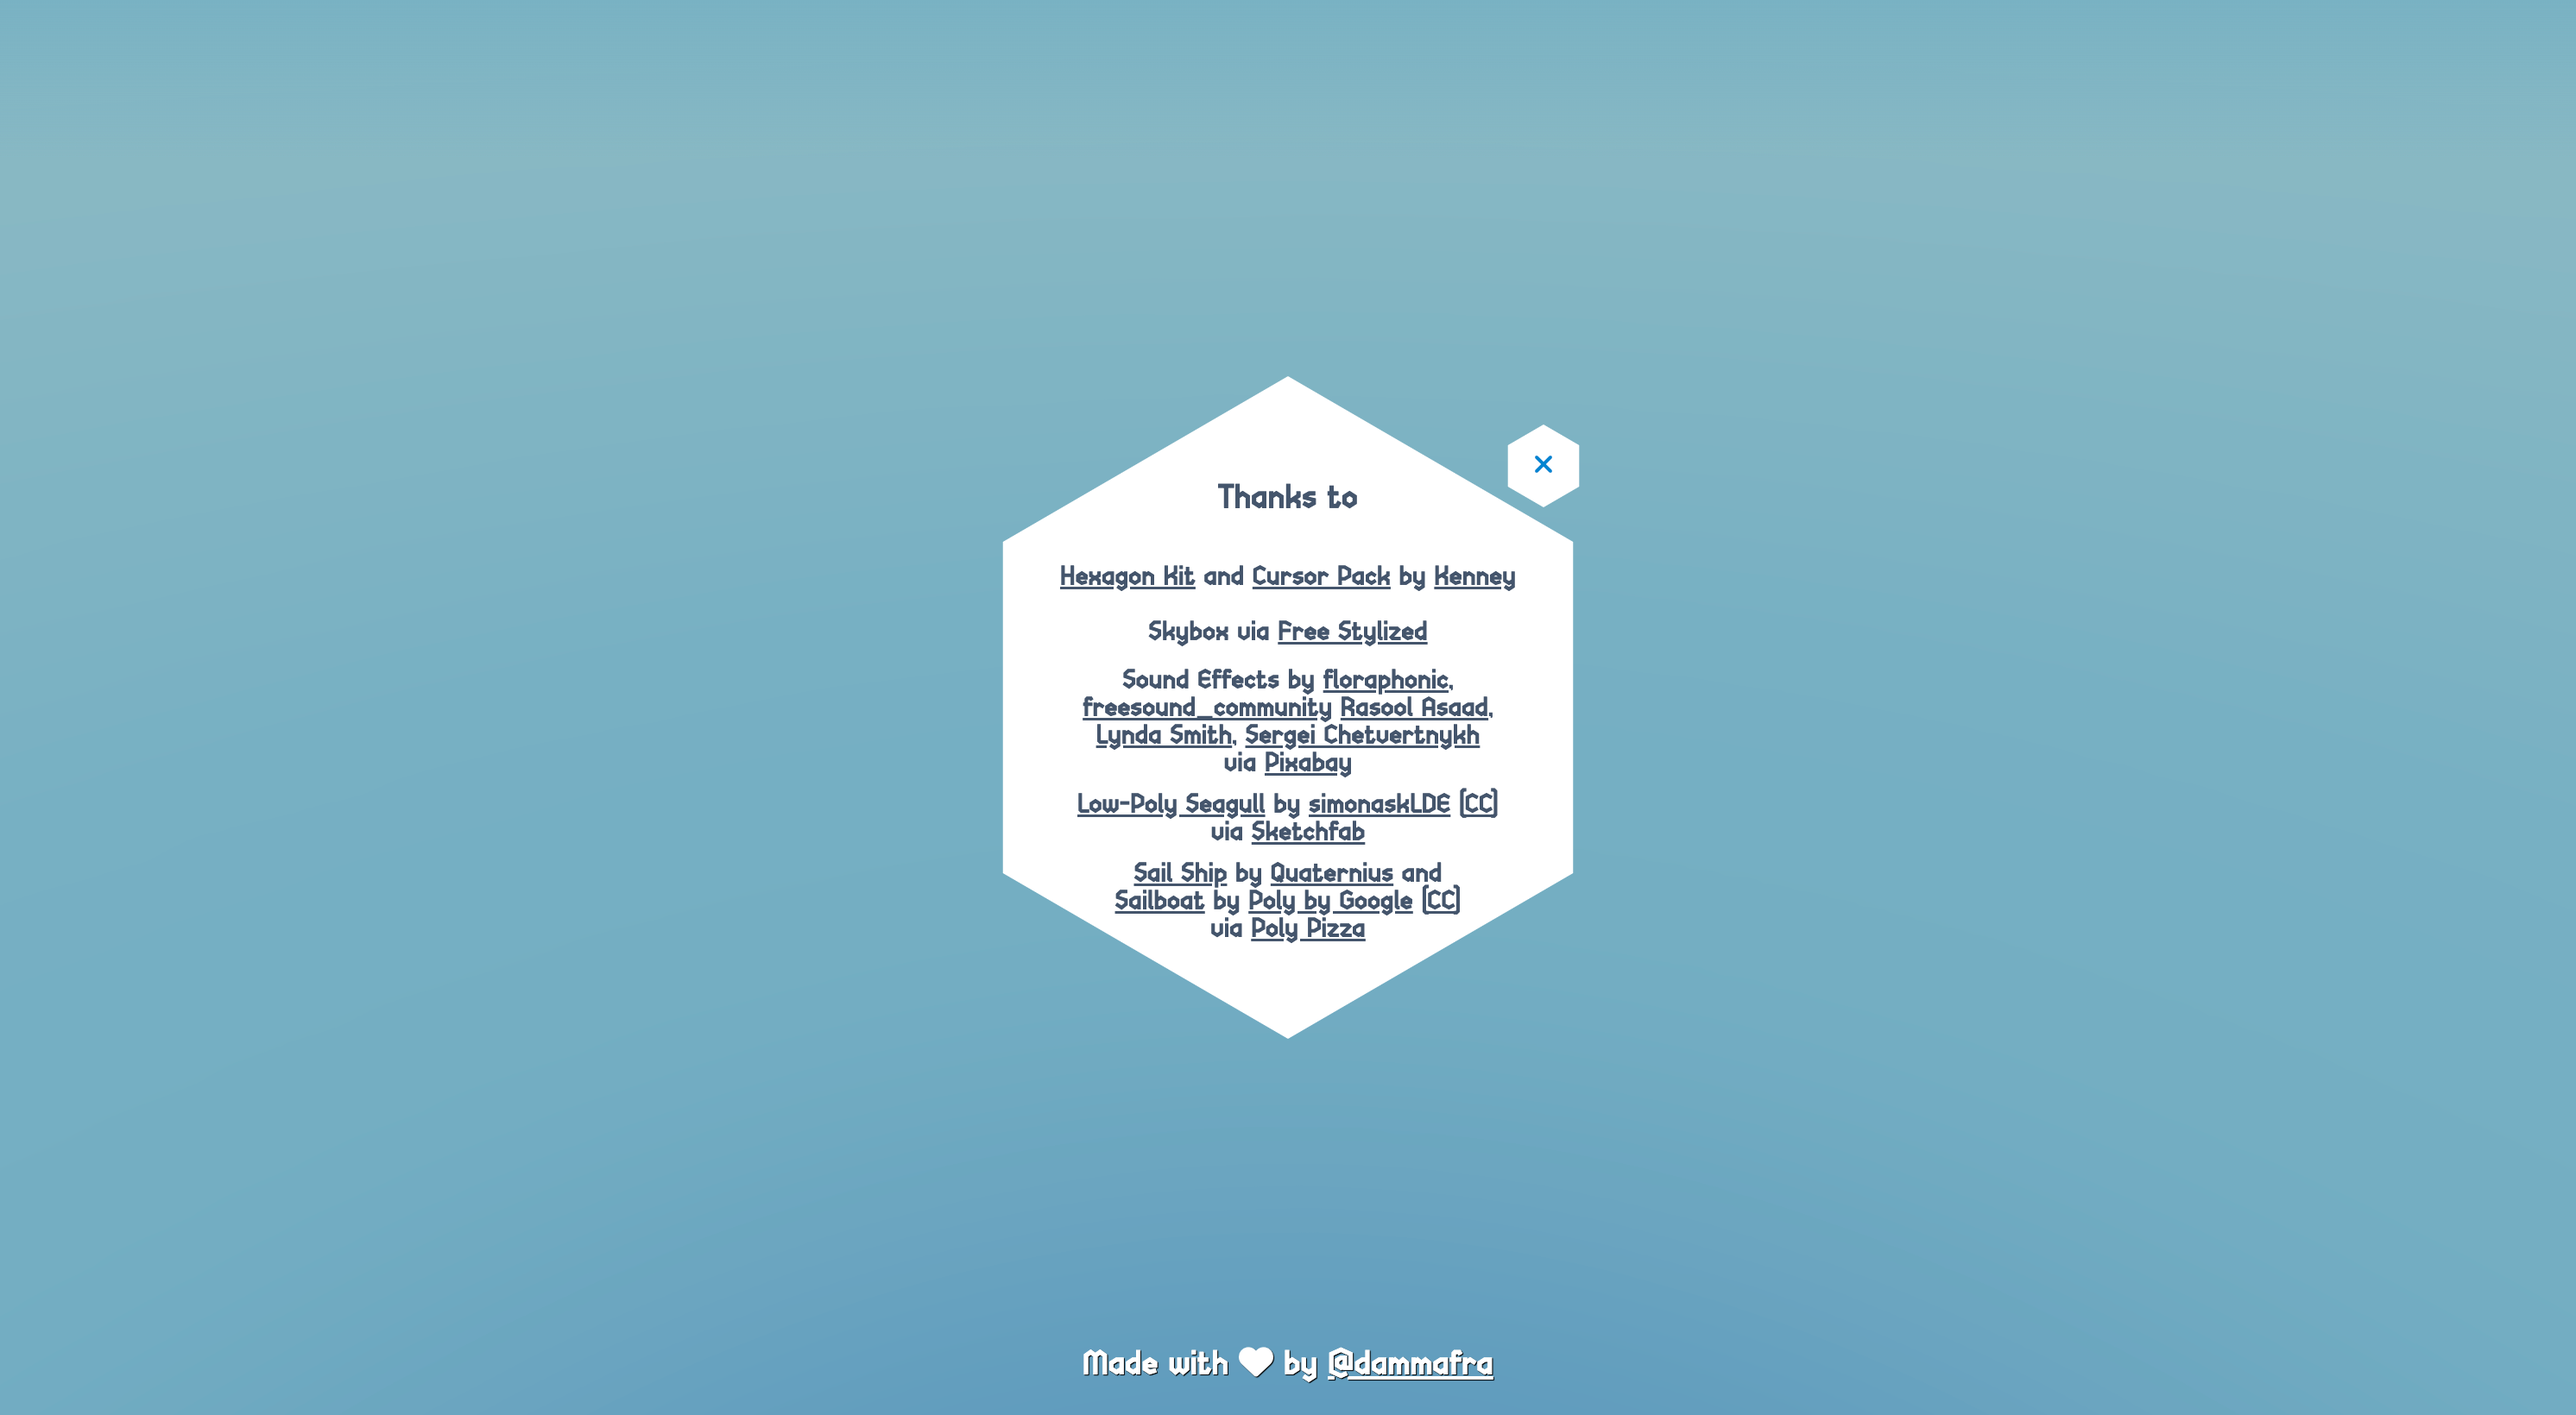
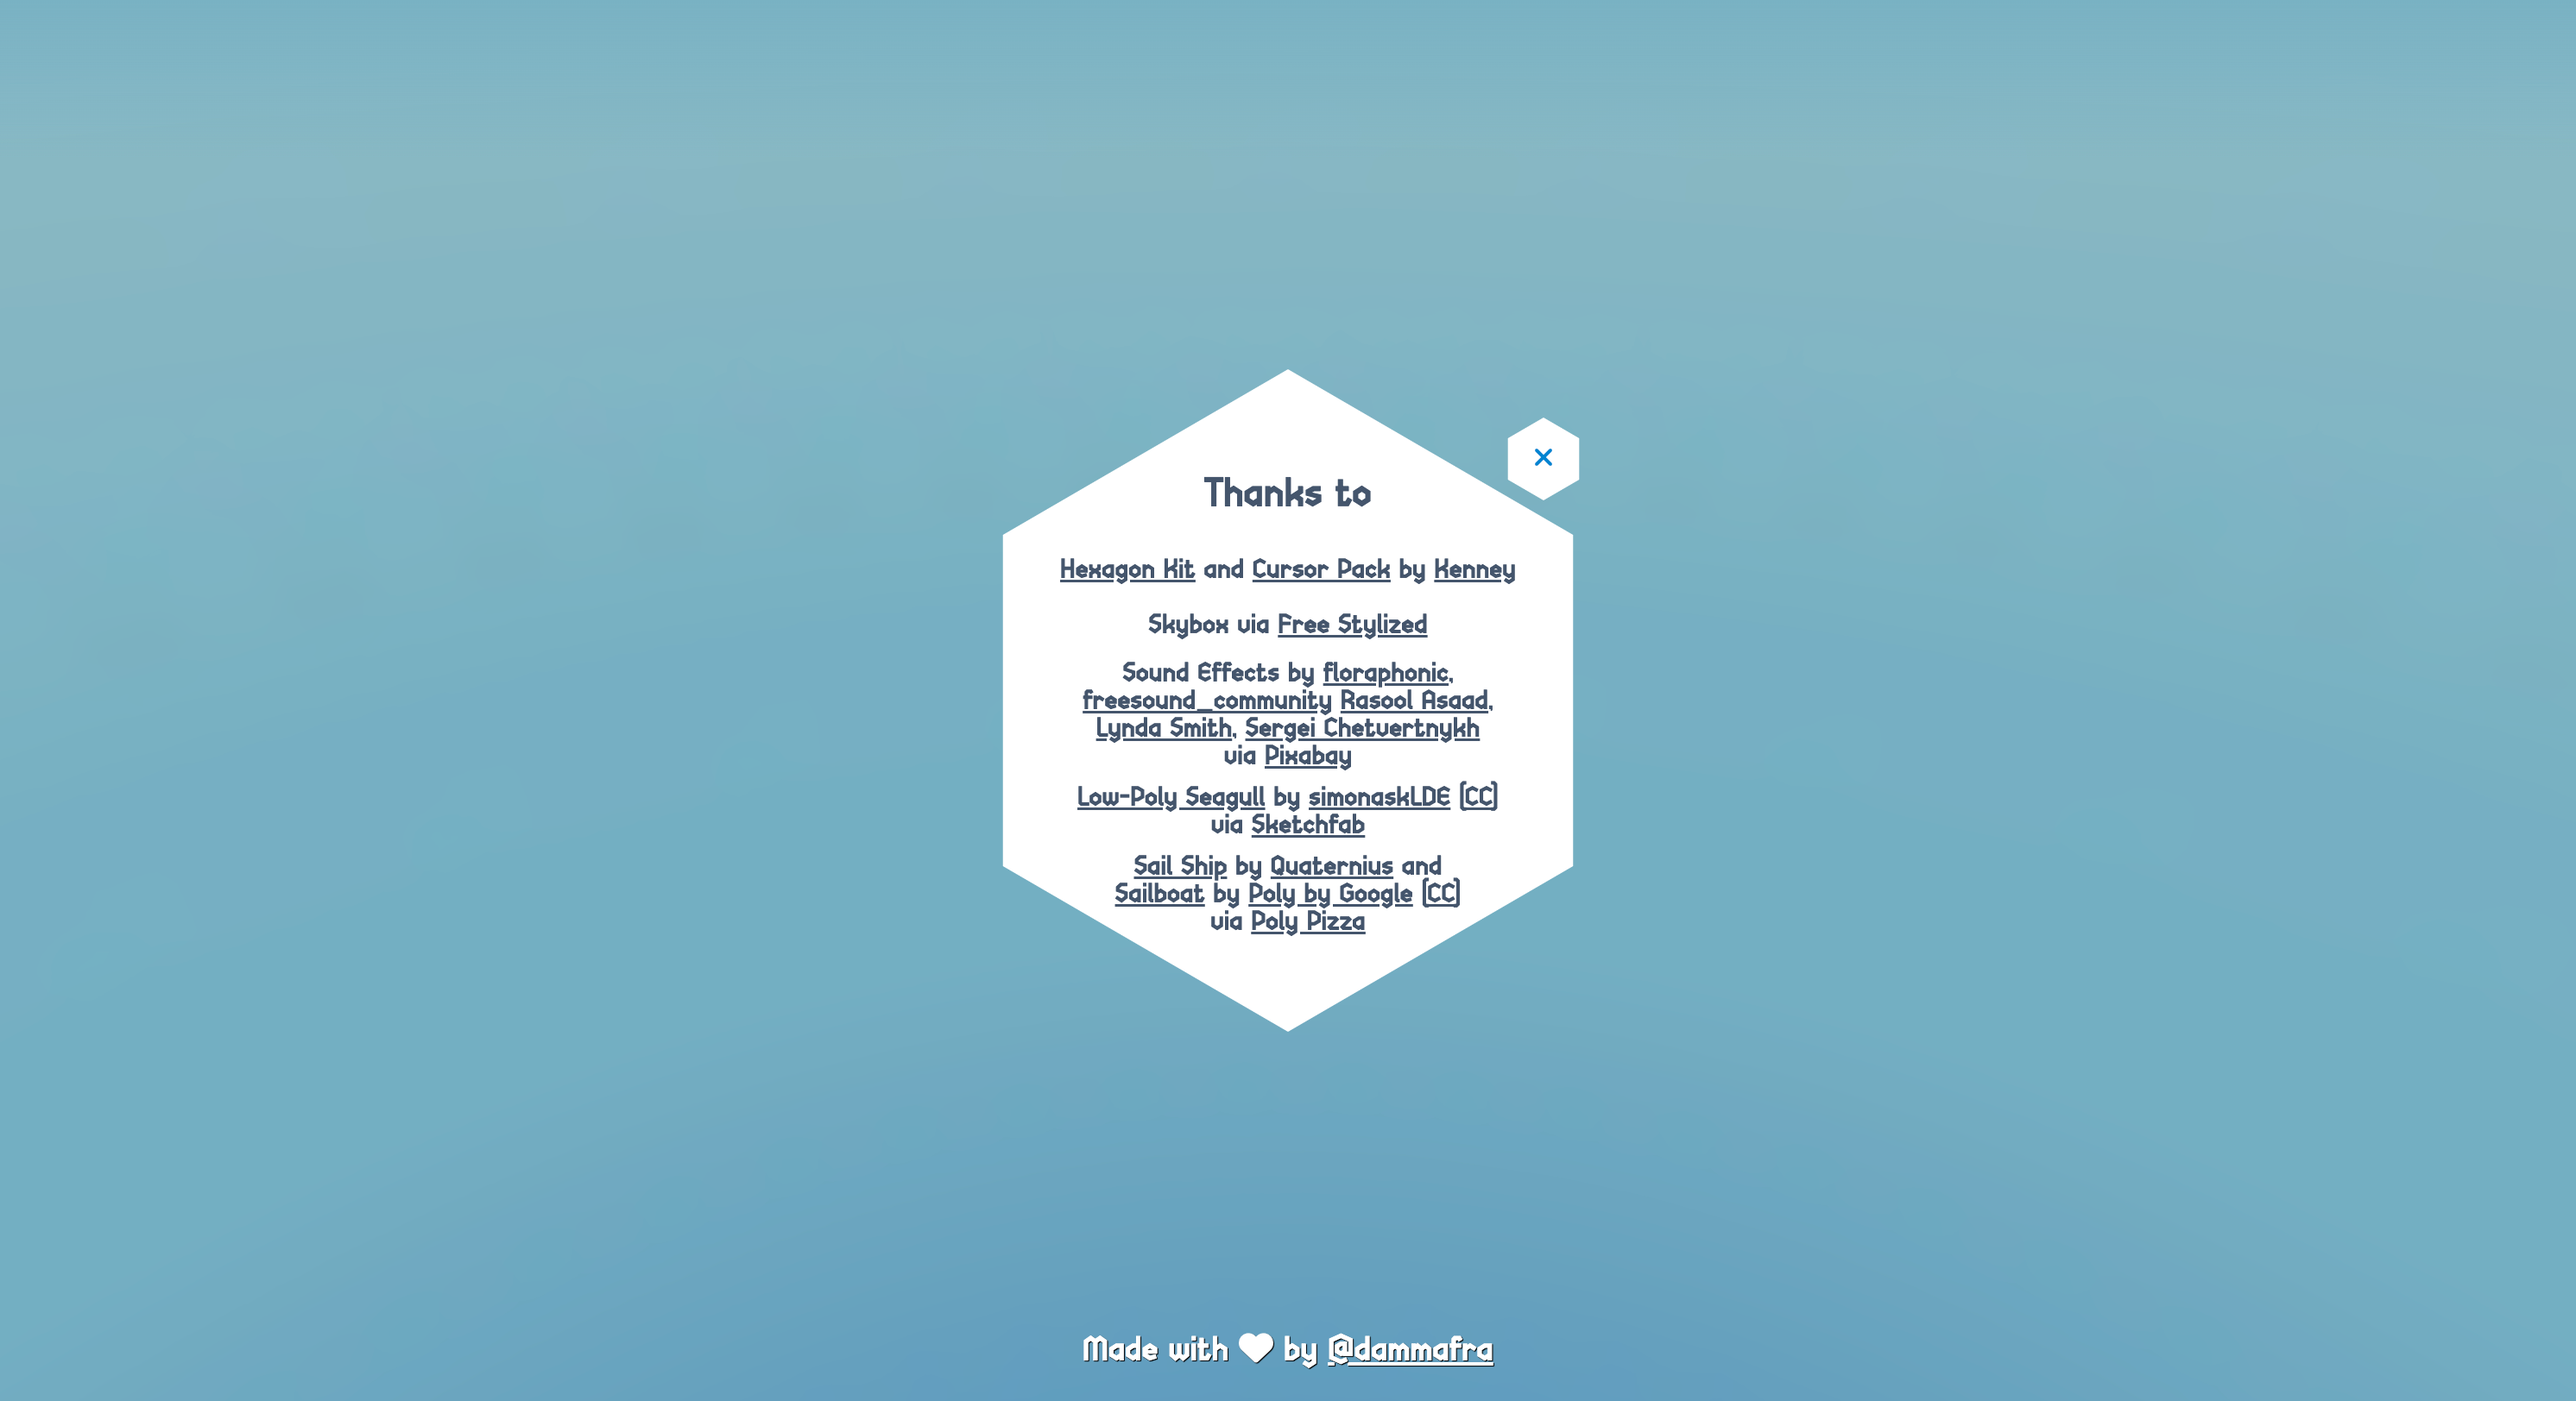
Add auth modals

diff --git a/src/index.html b/src/index.html
@@ -276,23 +276,23 @@
       </div>
 
       <div class="menu">
-        <div class="relative text-center">
+        <div class="relative text-center flex flex-col items-center">
           <div class="bg-hex"></div>
           <h1 class="title">Drysland</h1>
-          <div class="w-full flex flex-row justify-center">
+          <div class="flex flex-row justify-center relative">
             <button id="start" class="hex">
               <i class="fa-solid fa-play"></i>
               <label>Start</label>
             </button>
             <button id="auth" class="hex">
               <i class="fa-brands fa-google"></i>
-              <label>Login</label>
+              <label>Log in</label>
             </button>
             <button id="credits" class="hex absolute -bottom-20">
               <i class="fa-solid fa-circle-info"></i>
               <label>Credits</label>
             </button>
-            <button id="settings" class="hex absolute -bottom-[44px] right-[49px]">
+            <button id="settings" class="hex absolute -bottom-[44px] -right-[3px]">
               <i class="fa-solid fa-cog text-2xl"></i>
             </button>
           </div>
@@ -305,7 +305,7 @@
       </div>
 
       <div class="modal-container">
-        <div id="modal" class="flex hidden"></div>
+        <div class="modal-content hidden"></div>
         <button id="modal-close" class="hex absolute mb-70 ml-74 z-10 hidden">
           <i class="fa-solid fa-xmark"></i>
         </button>
@@ -314,8 +314,8 @@
       <canvas class="webgl grab"></canvas>
 
       <!-- modals -->
-      <div class="credits hidden">
-        <div class="pb-5 text-xl">Thanks to</div>
+      <div id="credits" class="modal hidden">
+        <h2>Thanks to</h2>
         <div class="flex flex-col gap-2">
           <div>
             <a href="https://kenney.nl/assets/hexagon-kit" target="_blank">Hexagon Kit</a> and
@@ -393,23 +393,19 @@
         </div>
       </div>
 
-      <div class="state-conflict hidden">
-        <div class="flex flex-col gap-2">
-          <p class="text-sm text-center">
-            Looks like your local and remote saves don’t match, choose the one you want to keep:
-          </p>
-          <div class="slots flex justify-center gap-2"></div>
+      <div id="state-conflict" class="modal hidden">
+        <p>Looks like your local and remote saves don’t match, choose the one to keep:</p>
+        <div class="slots flex justify-center gap-2">
+          <button id="save-slot" class="hex primary hidden size-32">
+            <p class="level text-xl">level</p>
+            <p class="date text-xs">date</p>
+          </button>
         </div>
       </div>
 
-      <button id="save-slot" class="hex primary hidden">
-        <p class="level text-xl">level</p>
-        <p class="date leading-4">date</p>
-      </button>
-
-      <div class="settings hidden text-center">
-        <div class="pb-5 text-2xl">Graphics Settings</div>
-        <div class="flex flex-col gap-2">
+      <div id="settings" class="modal hidden">
+        <h2>Graphics Settings</h2>
+        <div class="flex flex-col gap-2 w-44">
           <label>
             <input type="radio" name="graphics" value="quality" />
             <span class="radio-mark"></span>
@@ -421,12 +417,33 @@
             Performance
           </label>
         </div>
-        <p
-          id="restart-warning"
-          class="absolute bottom-[4.5rem] left-0 px-14 text-amber-500 scale-0"
-        >
+        <p id="restart-warning" class="text-amber-500 scale-0">
           You might need to restart the game for some changes to take effect
         </p>
+      </div>
+
+      <div id="auth-login" class="modal hidden">
+        <h2>Log in</h2>
+        <p>
+          Your progress is automatically saved on this device. <br />
+          Log in with Google to back up and sync it across all your devices.
+        </p>
+        <div class="flex justify-center gap-2">
+          <button id="cancel" class="hex secondary size-20">Cancel</button>
+          <button id="continue" class="hex primary size-20">Continue</button>
+        </div>
+      </div>
+
+      <div id="auth-logout" class="modal hidden">
+        <h2>Log out</h2>
+        <p>
+          You’re currently syncing your progress with your Google account. <br />
+          Logging out will stop cloud sync, but your progress will still be saved locally.
+        </p>
+        <div class="flex justify-center gap-2">
+          <button id="cancel" class="hex secondary size-20">Cancel</button>
+          <button id="continue" class="hex primary size-20">Continue</button>
+        </div>
       </div>
 
       <!-- header -->

diff --git a/src/firebase/auth.js b/src/firebase/auth.js
@@ -1,3 +1,6 @@
+import Button from '@ui/button'
+import Modal from '@ui/modal'
+import UI from '@ui/ui'
 import {
   GoogleAuthProvider,
   browserLocalPersistence,
@@ -17,16 +20,52 @@ export default class Auth {
     if (Auth.instance) return Auth.instance
 
     this.auth = getAuth(FirebasApp.instance)
+    this.provider = new GoogleAuthProvider()
+
     setPersistence(this.auth, browserLocalPersistence)
 
-    this.provider = new GoogleAuthProvider()
+    UI.authToggle
+      .onClick(() => (Auth.instance.user ? Auth.instance.signOut() : Auth.instance.signIn()))
+      .disable(true)
+
+    this.subscribe(user => {
+      UI.authToggle
+        .setLabel(user ? 'Log out' : 'Log in')
+        .toggle(!user)
+        .enable()
+      user && State.instance.sync()
+    })
   }
 
-  signIn = () => signInWithPopup(this.auth, this.provider)
+  signIn() {
+    Modal.instance.open('#auth-login.modal', {
+      disableClose: true,
+      onBeforeOpen: content => {
+        new Button(content.querySelector('#cancel')).onClick(() => Modal.instance.close()).show()
+        new Button(content.querySelector('#continue'))
+          .onClick(() => {
+            signInWithPopup(this.auth, this.provider)
+            Modal.instance.close()
+          })
+          .show()
+      },
+    })
+  }
 
   async signOut() {
-    await State.instance.desync()
-    return signOut(this.auth)
+    Modal.instance.open('#auth-logout.modal', {
+      disableClose: true,
+      onBeforeOpen: content => {
+        new Button(content.querySelector('#cancel')).onClick(() => Modal.instance.close()).show()
+        new Button(content.querySelector('#continue'))
+          .onClick(async () => {
+            await State.instance.desync()
+            signOut(this.auth)
+            Modal.instance.close()
+          })
+          .show()
+      },
+    })
   }
 
   subscribe(callback) {

diff --git a/src/experience/camera.js b/src/experience/camera.js
@@ -49,9 +49,14 @@ CameraControls.install({ THREE: subsetOfTHREE })
 // this.controls.rotate(delta, 0, true)
 
 export default class Camera {
+  get boundary() {
+    return this.settings.isGraphicsQuality ? 10 : 5
+  }
+
   constructor() {
     // Setup
     this.experience = Experience.instance
+    this.settings = this.experience.settings
     this.debug = this.experience.debug
     this.time = this.experience.time
     this.sizes = this.experience.sizes
@@ -80,10 +85,7 @@ export default class Camera {
     this.autoRotate = false
     this.autorotationSpeed = 3
 
-    const box = new Box3()
-    box.min.set(-10, 0, -10)
-    box.max.set(10, 10, 10)
-    this.controls.setBoundary(box)
+    this.setBoundary()
 
     this.controls.addEventListener('controlstart', () => {
       this.controls.removeEventListener('rest', onRest)
@@ -100,6 +102,13 @@ export default class Camera {
       this.userDragging = false
       this.disableAutoRotate = false
     }
+  }
+
+  setBoundary() {
+    const box = new Box3()
+    box.min.set(-this.boundary, 0, -this.boundary)
+    box.max.setScalar(this.boundary)
+    this.controls.setBoundary(box)
   }
 
   resize() {
@@ -175,6 +184,10 @@ export default class Camera {
       ),
     )
     return frustum.containsPoint(position)
+  }
+
+  applySettings() {
+    this.setBoundary()
   }
 
   setDebug() {

diff --git a/src/experience/experience.js b/src/experience/experience.js
@@ -77,6 +77,7 @@ export default class Experience {
   }
 
   applySettings = () => {
+    this.camera.applySettings()
     this.renderer.applySettings()
     this.environment.applySettings()
     delete WaterBlock.material
@@ -96,17 +97,9 @@ export default class Experience {
     this.menu = new Menu()
     this.soundControls = new SoundControls()
 
-    Auth.instance.subscribe(user => {
-      UI.authToggle
-        .setLabel(user ? 'Logout' : 'Login')
-        .toggle(!user)
-        .enable()
-      UI.startButton.enable()
-      user && State.instance.sync()
-    })
-    UI.authToggle.onClick(() => Auth.instance.user ? Auth.instance.signOut() : Auth.instance.signIn()).disable(true) //prettier-ignore
     UI.startButton.onClick(this.start.bind(this)).disable(true)
-    UI.creditsButton.onClick(() => Modal.instance.open('.credits'))
+    Auth.instance.subscribe(() => UI.startButton.enable())
+    UI.creditsButton.onClick(() => Modal.instance.open('#credits.modal'))
     UI.menuButton.onClick(this.openMenu.bind(this))
     UI.nextButton.onClick(this.nextLevel.bind(this))
     UI.backButton.onClick(this.setExplorationMode.bind(this))

diff --git a/src/style.css b/src/style.css
@@ -178,7 +178,7 @@ main {
 
 /* credits */
 .credits {
-  @apply text-base text-center;
+  @apply text-base;
 }
 
 .credits a {
@@ -190,8 +190,16 @@ main {
   @apply relative h-full w-full flex items-center justify-center p-mobile;
 }
 
-.modal-container #modal {
-  @apply hex bg-white text-slate-600 size-96 min-w-96 z-10 items-center justify-center px-12;
+.modal-container .modal-content {
+  @apply hex bg-white text-slate-600 size-96 min-w-96 z-10 flex items-center justify-center px-12 scale-0;
+}
+
+.modal {
+  @apply flex flex-col items-center gap-4 text-center;
+}
+
+.modal h2 {
+  @apply text-2xl;
 }
 
 /* UI */
@@ -213,6 +221,10 @@ button.hex label {
 
 button.hex.primary {
   @apply bg-primary text-white hover:bg-sky-400;
+}
+
+button.hex.secondary {
+  @apply bg-slate-200 hover:bg-slate-100;
 }
 
 div:has(#level) {

diff --git a/src/firebase/state.js b/src/firebase/state.js
@@ -41,7 +41,7 @@ export default class State {
       }
 
       // handle conflict
-      Modal.instance.open('.state-conflict', {
+      Modal.instance.open('#state-conflict.modal', {
         disableClose: true,
         onBeforeOpen: content => {
           const slot1 = new SaveSlot(localState)
@@ -59,6 +59,7 @@ export default class State {
             })
             .show()
 
+          content.querySelector('.slots').innerHTML = ''
           content.querySelector('.slots').append(slot1.element, slot2.element)
         },
       })

diff --git a/src/experience/settings.js b/src/experience/settings.js
@@ -18,7 +18,7 @@ export default class Settings extends EventDispatcher {
     this.update()
 
     UI.settingsButton.onClick(() => {
-      Modal.instance.open('.settings', { onBeforeOpen: this.onBeforeSettingsModalOpen })
+      Modal.instance.open('#settings.modal', { onBeforeOpen: this.onBeforeSettingsModalOpen })
     })
   }
 

diff --git a/src/ui/modal.js b/src/ui/modal.js
@@ -7,7 +7,7 @@ export default class Modal extends Element {
 
   constructor() {
     if (Modal.instance) return Modal.instance
-    super('#modal')
+    super('.modal-content')
 
     this.closeButton = new Button('#modal-close')
     this.closeButton.onClick(this.close.bind(this))

diff --git a/README.md b/README.md
@@ -43,6 +43,7 @@ TBD
 
 ### Save System & Sync
 
+<img src="./screens/log-in.png" alt="Log in"  >
 <img src="./screens/state-conflict.png" alt="Cover"  >
 
 Drysland automatically saves your progress locally using the browser’s local storage, so you can pick up right where you left off.
